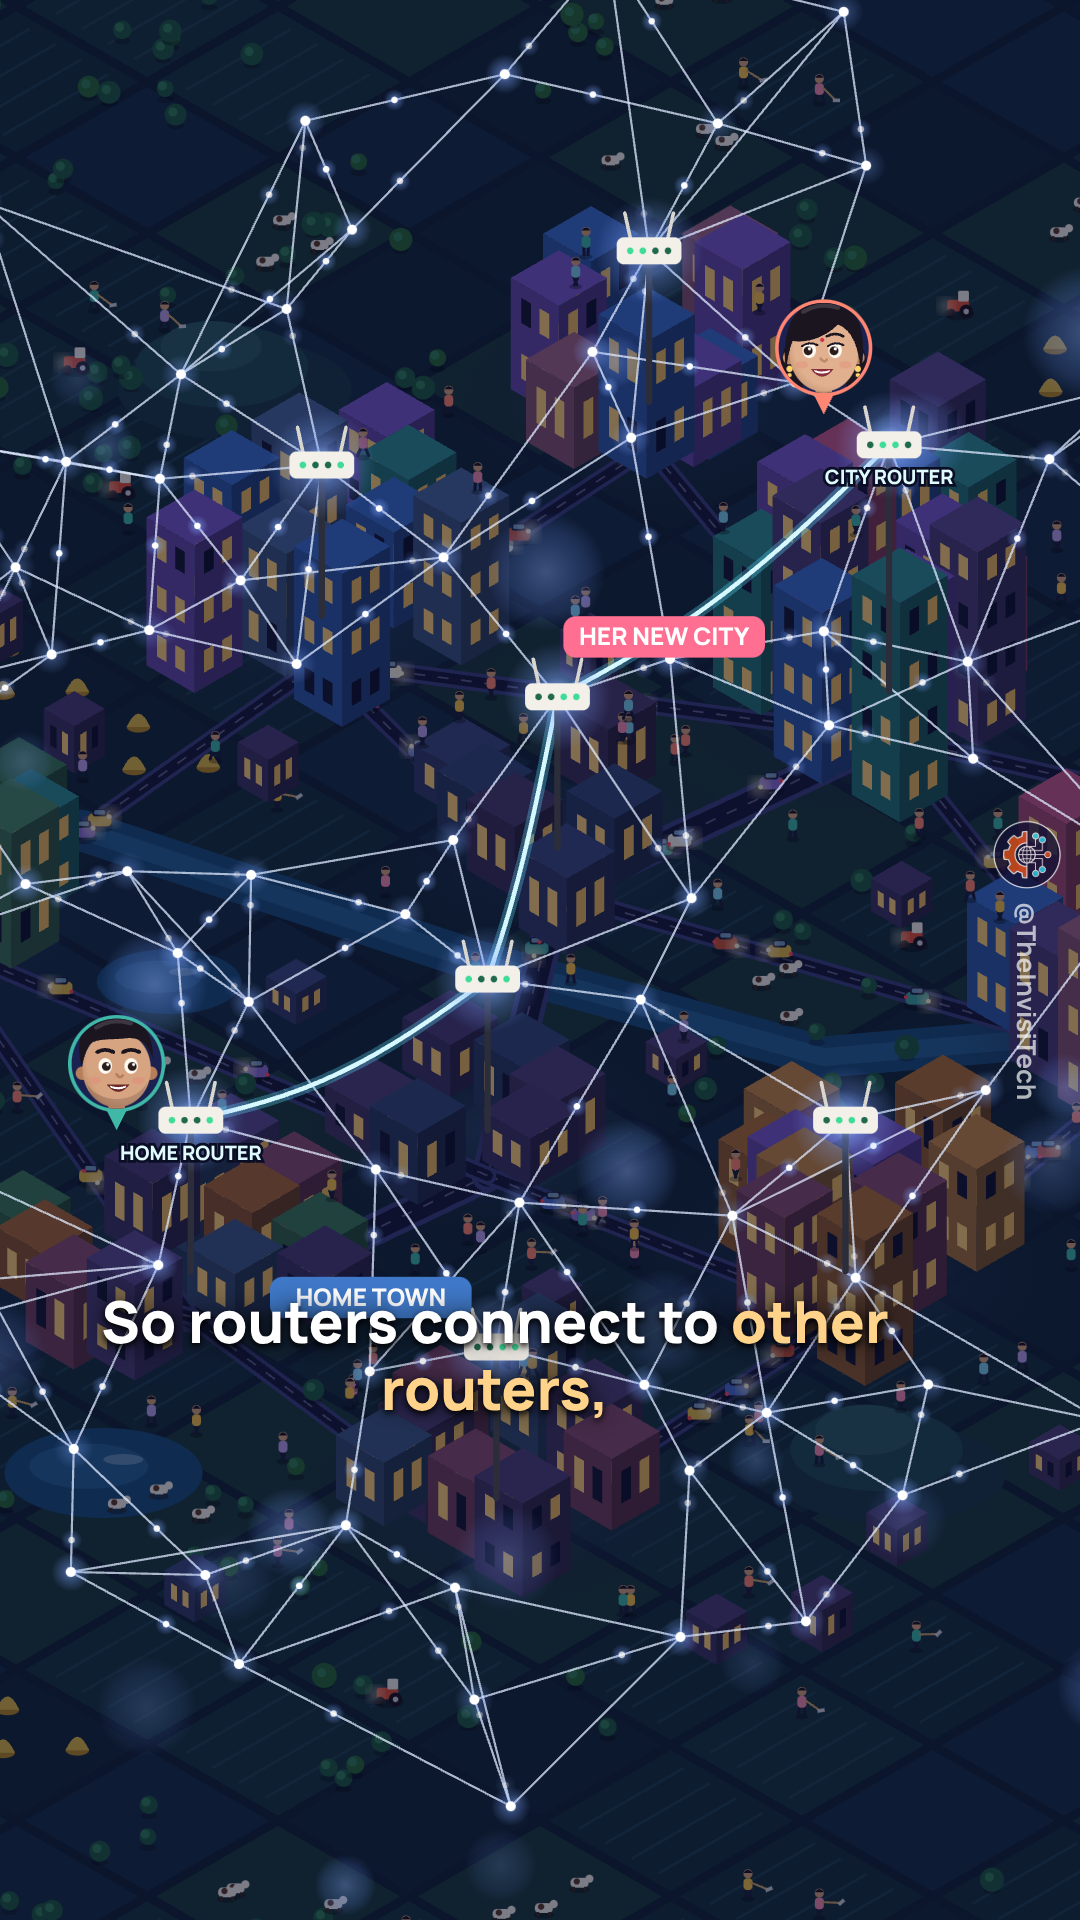
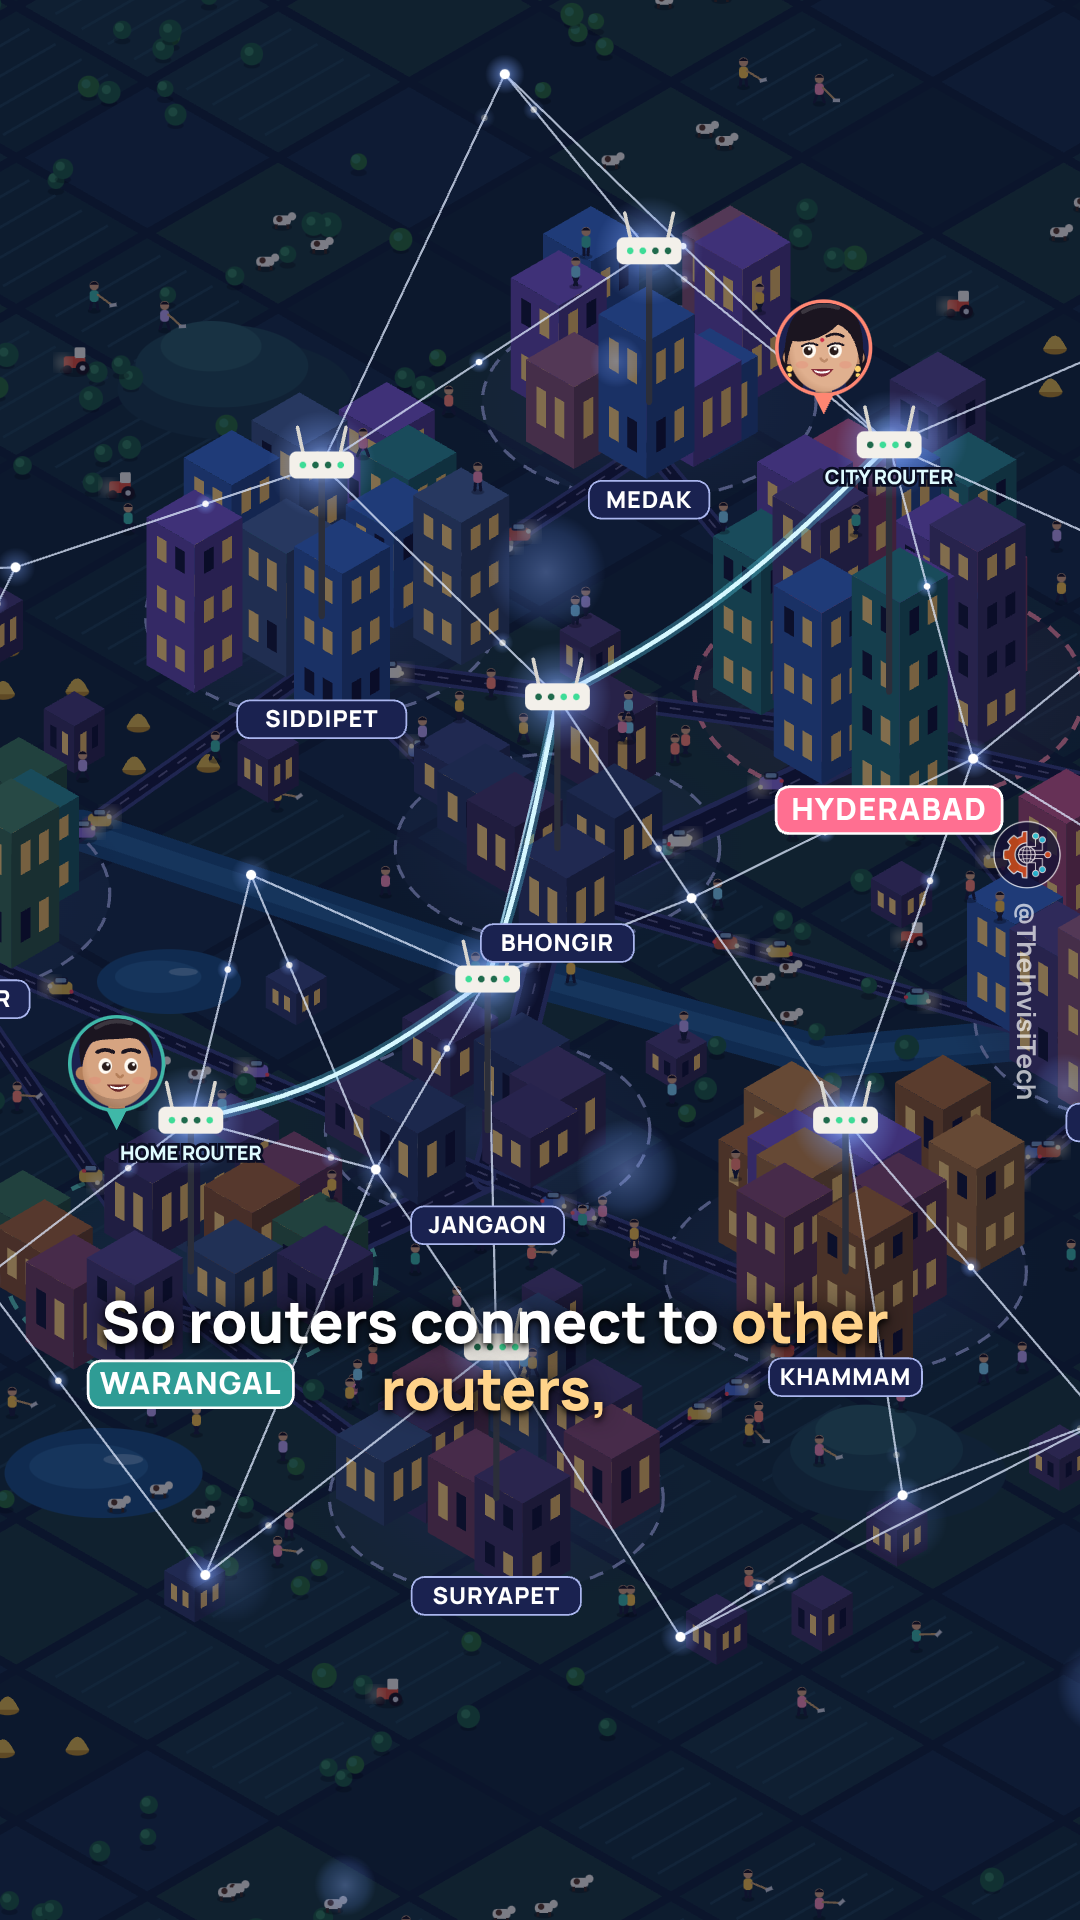
Internet short: step 3 with a lighter web, city borders and city names
Claude-Session: https://claude.ai/code/session_01GXcKc3rwQcfrK3291f8HAB

diff --git a/internet/v3/src/dusk/IsoCity.tsx b/internet/v3/src/dusk/IsoCity.tsx
@@ -37,6 +37,7 @@ const CT: { c: readonly [number, number]; n: number; cols: string[]; h: [number,
   { c: [6.5, -13], n: 8, cols: ['#2f8f96', '#c95a8c', '#5a4d94'], h: [1.2, 2.8], r: 1.6, seed: 310 },
   { c: [-10, -12.5], n: 8, cols: ['#7a5ad0', '#3a6fd0', '#a3688c'], h: [1.2, 2.8], r: 1.6, seed: 340 },
 ];
+const NAMES = ['WARANGAL', 'JANGAON', 'BHONGIR', 'HYDERABAD', 'KHAMMAM', 'KARIMNAGAR', 'NALGONDA', 'SIDDIPET', 'SURYAPET', 'NIZAMABAD', 'MAHBUBNAGAR', 'MEDAK'];
 const LINKS: [number, number][] = [[0, 1], [1, 2], [2, 3], [1, 4], [4, 6], [6, 3], [0, 5], [5, 7], [7, 3], [2, 7], [0, 8], [8, 4], [0, 9], [9, 5], [6, 10], [10, 3], [7, 11], [11, 3], [2, 6], [1, 5]];
 const town = (c: readonly number[], n: number, cols: string[], hMin: number, hMax: number, seed: number, r: number): B[] => Array.from({ length: n }).map((_, i) => { const a = (i / n) * Math.PI * 2 + hash(seed + i) * 0.8, rr = 0.9 + hash(seed + i * 3) * r; return { x: c[0] + Math.cos(a) * rr - 0.55, y: c[1] + Math.sin(a) * rr - 0.55, w: 1.1, d: 1.1, h: hMin + hash(seed + i * 5) * (hMax - hMin), c: cols[i % cols.length], lit: 0.8 }; });
 const VO: [number, React.ReactNode][] = [[0.2, <>Then she moves to another <em>city.</em></>], [3.3, <>One router can't reach <em>that far.</em></>], [5.3, <>So routers connect to <em>other routers,</em></>], [8.0, <>and pass the message along, <em>hop by hop.</em></>]];
@@ -95,6 +96,7 @@ export const IsoCity: React.FC = () => {
           {[[-15, -8], [14, 6], [-3, 17], [14, -2], [-16, 0], [1, -16]].map(([x, y], i) => { const c = iso(x, y); return <g key={'hl' + i}><ellipse cx={c[0]} cy={c[1]} rx={130} ry={56} fill="#1c3a4a" /><ellipse cx={c[0] - 14} cy={c[1] - 26} rx={96} ry={46} fill="#234b58" /><ellipse cx={c[0] - 26} cy={c[1] - 48} rx={56} ry={28} fill="#2c5c66" /></g>; })}
           {/* town ground glow, roads between every pair of linked cities */}
           {CT.map((q, i) => { const c = g(i), r = (q.r + 2.6) * S * 0.9; return <ellipse key={'gl' + i} cx={c[0]} cy={c[1]} rx={r} ry={r * 0.58} fill="url(#cG)" />; })}
+          {CT.map((q, i) => { const c = g(i), r = (q.r + 2.0) * S * 0.92, hero = i === 0 || i === 3; return <g key={'bd' + i}><ellipse cx={c[0]} cy={c[1]} rx={r} ry={r * 0.58} fill={hero ? (i ? '#ff6f91' : '#3fb8a8') : '#9fb0ff'} opacity={0.07} /><ellipse cx={c[0]} cy={c[1]} rx={r} ry={r * 0.58} fill="none" stroke={hero ? (i ? '#ff8fa8' : '#5fd6c6') : '#aab6ee'} strokeWidth={hero ? 5 : 3.5} strokeDasharray="16 12" opacity={0.9} /></g>; })}
           {LINKS.map(([a, b], i) => { const pa = g(a, 0.9, 0.9), pb = g(b, 0.9, 0.9), main = i < 3; return <g key={'rd' + i}><line x1={pa[0]} y1={pa[1]} x2={pb[0]} y2={pb[1]} stroke="#3a4280" strokeWidth={main ? 36 : 20} strokeLinecap="round" /><line x1={pa[0]} y1={pa[1]} x2={pb[0]} y2={pb[1]} stroke="#161a3c" strokeWidth={main ? 25 : 12} strokeLinecap="round" /><line x1={pa[0]} y1={pa[1]} x2={pb[0]} y2={pb[1]} stroke="#8e8cc0" strokeWidth={2} strokeDasharray="12 14" opacity={0.6} />
             {[0, 1, 2].map((c) => { const k = (t * (0.045 + 0.015 * c) + hash(i * 3 + c)) % 1, kk = c % 2 ? 1 - k : k, sg = c % 2 ? -1 : 1, nx = -(pb[1] - pa[1]), ny = pb[0] - pa[0], nl = Math.hypot(nx, ny) || 1, off = (main ? 7 : 4) * sg; return <Car key={c} x={lerp(pa[0], pb[0], kk) + nx / nl * off} y={lerp(pa[1], pb[1], kk) + ny / nl * off} c={CCOL[(i + c) % 6]} dx={(pb[0] - pa[0]) * sg} dy={(pb[1] - pa[1]) * sg} />; })}</g>; })}
           {Array.from({ length: 520 }).map((_, i) => { const cl = Math.floor(hash(i * 17) * 44), bx0 = -32 + hash(cl * 5 + 1) * 64, by0 = -32 + hash(cl * 7 + 2) * 64, x = bx0 + (hash(i * 3) - 0.5) * 6, y = by0 + (hash(i * 5 + 9) - 0.5) * 6; if (CT.some((q) => Math.hypot(q.c[0] - x, q.c[1] - y) < q.r + 1.6)) return null; const q = iso(x, y); return <g key={'t' + i}><ellipse cx={q[0]} cy={q[1] + 3} rx={9} ry={4} fill="#000" opacity={0.25} /><circle cx={q[0]} cy={q[1] - 9} r={9 + hash(i) * 5} fill={i % 4 ? '#1f5a44' : '#2a6a3a'} /><circle cx={q[0] - 3} cy={q[1] - 12} r={5} fill="#34805e" /></g>; })}
@@ -117,13 +119,13 @@ export const IsoCity: React.FC = () => {
               No blur filters on the lines (they caused the flashing shards). */}
           {(() => { const web = prog(f, 5.6, 7.6); if (web <= 0) return null;
             const pts: number[][] = RT.map((q) => [q[0], q[1]]);
-            for (let i = 0; i < 150; i++) { const x = -19 + hash(i * 9 + 3) * 38, y = -21 + hash(i * 13 + 5) * 42, q = iso(x, y, 1.2 + hash(i * 5) * 2.4); if (pts.every((o) => Math.hypot(o[0] - q[0], o[1] - q[1]) > 95)) pts.push([q[0], q[1]]); }
+            for (let i = 0; i < 60; i++) { const x = -19 + hash(i * 9 + 3) * 38, y = -21 + hash(i * 13 + 5) * 42, q = iso(x, y, 1.2 + hash(i * 5) * 2.4); if (pts.every((o) => Math.hypot(o[0] - q[0], o[1] - q[1]) > 210)) pts.push([q[0], q[1]]); }
             const dist = (a: number[], b: number[]) => Math.hypot(a[0] - b[0], a[1] - b[1]); const edges: [number, number][] = [];
-            pts.forEach((a, ai) => { pts.map((b, bi) => [dist(a, b), bi]).sort((u, v) => u[0] - v[0]).slice(1, 5).forEach(([, bi]) => { if (!edges.some(([x, y]) => (x === ai && y === bi) || (x === bi && y === ai))) edges.push([ai, bi]); }); });
+            pts.forEach((a, ai) => { pts.map((b, bi) => [dist(a, b), bi]).sort((u, v) => u[0] - v[0]).slice(1, 4).forEach(([, bi]) => { if (!edges.some(([x, y]) => (x === ai && y === bi) || (x === bi && y === ai))) edges.push([ai, bi]); }); });
             const R = web * 2400, vis = (q: number[]) => clamp01((R - dist(q, pts[0])) / 240);
             return <g>
               <rect x={-4000} y={-4000} width={9000} height={9000} fill="#040820" opacity={0.5 * Math.min(1, web * 2)} />
-              {Array.from({ length: 90 }).map((_, i) => { const x = -900 + hash(i * 3 + 1) * 2900 + Math.sin(t * 0.5 + i) * 24, y = -700 + hash(i * 5 + 2) * 3300 + Math.cos(t * 0.4 + i * 2) * 24; return <circle key={'bo' + i} cx={x} cy={y} r={26 + hash(i * 7) * 50} fill="url(#cBok)" opacity={(0.3 + 0.5 * hash(i * 11)) * vis([x, y])} />; })}
+              {Array.from({ length: 45 }).map((_, i) => { const x = -900 + hash(i * 3 + 1) * 2900 + Math.sin(t * 0.5 + i) * 24, y = -700 + hash(i * 5 + 2) * 3300 + Math.cos(t * 0.4 + i * 2) * 24; return <circle key={'bo' + i} cx={x} cy={y} r={26 + hash(i * 7) * 50} fill="url(#cBok)" opacity={(0.3 + 0.5 * hash(i * 11)) * vis([x, y])} />; })}
               {edges.map(([a, b], i) => { const o = Math.min(vis(pts[a]), vis(pts[b])); return o > 0 ? <line key={'e' + i} x1={pts[a][0]} y1={pts[a][1]} x2={pts[b][0]} y2={pts[b][1]} stroke="#dfeaff" strokeWidth={2.4} opacity={0.75 * o} /> : null; })}
               {edges.map(([a, b], i) => { const far = dist(pts[a], pts[3]) > dist(pts[b], pts[3]) ? a : b, near = far === a ? b : a, k = (t * 0.6 + hash(i) * 3) % 1, o = Math.min(vis(pts[a]), vis(pts[b])) * Math.sin(Math.PI * k), x = lerp(pts[far][0], pts[near][0], k), y = lerp(pts[far][1], pts[near][1], k); return o > 0 ? <g key={'d' + i} opacity={o}><circle cx={x} cy={y} r={12} fill="url(#cDot)" /><circle cx={x} cy={y} r={3.6} fill="#fff" /></g> : null; })}
               {pts.map((q, i) => { const o = vis(q), tw = 0.75 + 0.25 * Math.sin(t * 3 + i * 1.3); return o > 0 ? <g key={'n' + i} opacity={o}><circle cx={q[0]} cy={q[1]} r={i < 12 ? 34 : 22} fill="url(#cDot)" opacity={tw} /><circle cx={q[0]} cy={q[1]} r={i < 12 ? 8 : 5.5} fill="#fff" /></g> : null; })}
@@ -139,8 +141,8 @@ export const IsoCity: React.FC = () => {
           <Face kind="woman" x={herXY[0]} y={herXY[1] - 60} ring="#ff8672" id="w" smile={bus < 1 ? 0.6 : 1} />
           {t > H0 - 0.6 && t < H0 + 0.1 && <g opacity={prog(f, H0 - 0.6, H0 - 0.45) * (1 - prog(f, H0 - 0.05, H0 + 0.1))} transform={`translate(${himXY[0]} ${himXY[1] - 150}) scale(1.3)`}><rect x={-64} y={-30} width={128} height={44} rx={14} fill="#0e1430" stroke="#5fe3ff" strokeWidth={2} /><text y={3} textAnchor="middle" style={{ font: `800 28px ${FONT.ui}` }} fill="#fff">HELLO</text></g>}
           {got > 0 && <g opacity={got} transform={`translate(${herXY[0]} ${herXY[1] - 150}) scale(1.3)`}><rect x={-64} y={-30} width={128} height={44} rx={14} fill="#0e1430" stroke="#5fe3ff" strokeWidth={2} /><text y={3} textAnchor="middle" style={{ font: `800 28px ${FONT.ui}` }} fill="#fff">HELLO</text><circle cx={64} cy={-30} r={13} fill="#3ddc97" /><path d="M 58 -30 L 62 -25 L 70 -35" stroke="#06261a" strokeWidth={3.5} fill="none" strokeLinecap="round" /></g>}
-          {/* town name plates */}
-          {([[0, 'HOME TOWN', 200, 30], [3, 'HER NEW CITY', -250, -60]] as [number, string, number, number][]).map(([i, n, dx, dy]) => { const c = g(i); return <g key={n} transform={`translate(${c[0] + dx} ${c[1] + dy})`}><rect x={-112} y={-24} width={224} height={46} rx={14} fill={i ? '#ff6f91' : '#3f78c8'} /><text y={8} textAnchor="middle" style={{ font: `800 27px ${FONT.ui}` }} fill="#fff">{n}</text></g>; })}
+          {/* city name plates, on the front edge of each border */}
+          {CT.map((q, i) => { const c = g(i), r = (q.r + 2.0) * S * 0.92, hero = i === 0 || i === 3, w = NAMES[i].length * (hero ? 23 : 18) + 44; return <g key={'nm' + i} transform={`translate(${c[0]} ${c[1] + r * 0.58 + 4})`}><rect x={-w / 2} y={-24} width={w} height={hero ? 52 : 42} rx={14} fill={hero ? (i ? '#ff6f91' : '#2f9c95') : '#1a2250'} stroke={hero ? '#fff' : '#aab6ee'} strokeWidth={hero ? 3 : 2} /><text y={hero ? 13 : 6} textAnchor="middle" style={{ font: `800 ${hero ? 34 : 26}px ${FONT.ui}`, letterSpacing: '0.04em' }} fill="#fff">{NAMES[i]}</text></g>; })}
         </g>
       </svg>
       {line && <div style={{ position: 'absolute', top: 1260, left: 60, right: 150, height: 190, display: 'flex', alignItems: 'center', justifyContent: 'center', textAlign: 'center', font: `800 58px/1.15 ${FONT.ui}`, color: '#fff', textShadow: '0 3px 6px rgba(0,0,0,.95), 0 0 26px rgba(0,0,0,.9)' }}><div className="sub">{line}</div></div>}
